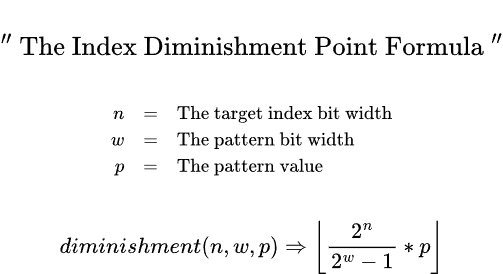
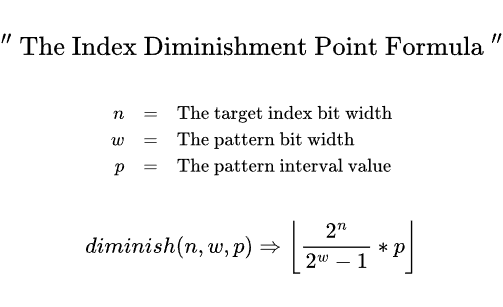
General work

diff --git a/enigma2/assets/diminishment point.tex b/enigma2/assets/diminishment point.tex
@@ -5,8 +5,8 @@
 \begin{array}{rcl}
     n & = & \text{The target index bit width} \\
     w & = & \text{The pattern bit width} \\
-    p & = & \text{The pattern value}
+    p & = & \text{The pattern interval value}
 \end{array}
 \normalsize\\\\
-diminishment(n, w, p) \Rightarrow  \left\lfloor \dfrac{2^{n}}{2^{w} - 1} * 𝑝 \right\rfloor
-\\
+diminish(n, w, p) \Rightarrow  \left\lfloor \dfrac{2^{n}}{2^{w} - 1} * 𝑝 \right\rfloor
+\\\\

diff --git a/enigma2/assets/diminishment summation.tex b/enigma2/assets/diminishment summation.tex
@@ -1,3 +1,4 @@
+\\
 \large
 ''\text{ Index Diminishment Point Summation }'' \\\\
 \small
@@ -12,3 +13,4 @@
 k = \left\lfloor \frac{𝑛}{w} \right\rfloor \\\\
 \sum_{j=0}^{k}
 \left\lfloor\left(\dfrac{2^{n-j*w}}{2^{w}}\right)*p \right\rfloor
+\\\\

diff --git a/enigma2/E2S1 - Index Diminishment.md b/enigma2/E2S1 - Index Diminishment.md
@@ -33,8 +33,8 @@ Let's take an 11-bit index and break it into eight regions using a note (3-bit) 
     let 𝑛 = The index width
     let 𝑤 = The pattern width
     let 𝑝 = The pattern value
-    let  𝑣(𝑝) ↦ ⌊(2ⁿ / (2ʷ - 1)) * 𝑝⌋
-    let 𝑑𝑣(𝑝) ↦ 𝑣(𝑝) - 𝑣(𝑚𝑎𝑥(𝑝 - 1, 0))
+    let  𝑣(𝑛, 𝑤, 𝑝) ↦ ⌊(2ⁿ / (2ʷ - 1)) * 𝑝⌋
+    let 𝑑𝑣(𝑛, 𝑤, 𝑝) ↦ 𝑣(𝑛, 𝑤, 𝑝) - 𝑣(𝑛, 𝑤, 𝑚𝑎𝑥(𝑝 - 1, 0))
     where 𝑚𝑎𝑥(𝑎, 𝑏) returns the larger of 𝑎 and 𝑏 
  
                                       ⬐ "Synthesized Point"
@@ -64,6 +64,17 @@ lower the _resolution_ of the index and provides a way to quickly "stride" throu
 
 Binary is truly the most beautiful counting system in existence =)
 
+<picture>
+<img alt="Index Diminishment Formula" src="assets/diminishment point.png" style="display: block; margin-left: auto; margin-right: auto;">
+</picture>
+
+In `tiny` you can synthesize any diminishment point on the fly by providing a binary measurement (which implicitly
+provides the pattern interval and width as one variable) -
+
+    let 𝑚 = A known interval measurement
+
+    tiny.Synthesize.Point.Diminishment(𝑚, 𝑛) // Synthesizes diminishment interval 𝑚 across an 𝑛-wide index  
+
 ### Terminals, Intervals, and Reading Phrases
 
 A **_single_** leading pattern can also be used to implicitly reference a sub-index on demand - called a _terminal
@@ -87,12 +98,12 @@ of the bit pattern itself -
                        | 1 0 1 - 0 ... 0 |
      The Terminus Interval ⬏        ⬑ The Terminal Region
 
-This brings me to an important, _albeit brief,_ note - binary _values_ are read right to left, but we still colloquially
-read _logical_ binary data from left to right.  The leftmost bit, or the "most significant bit," is considered index
+This brings me to an important note: binary _values_ are read right↤to↤left, but we still colloquially
+read _logical_ binary data from left↦to↦right.  The leftmost bit, or the "most significant bit," is considered index
 position `0` - whereas the rightmost bit, or the "least significant bit," is considered index position `𝑛-1`.  From a
-_value_ perspective, on the other hand, the value wouldn't exist _without_ a terminus.  That's why data pinned to
-the _left side_ of the phrase is considered the _"terminal data,"_ but data pinned to the _right side_ is considered
-the _"initial data."_  In `tiny` both can quickly be synthesized -
+_value_ perspective, on the other hand, the value wouldn't exist _without_ a terminus because _the phrase would be 
+empty!_  That's why data pinned to the _left side_ of the phrase is considered the _"terminal data,"_ but data pinned 
+to the _right side_ is considered the _"initial data."_  In `tiny` both can quickly be synthesized -
 
         tiny.Synthesize.Point.Terminal(𝑝, 𝑛) // Synthesizes terminal point 𝑝 followed by zeros up to the provided width
         tiny.Synthesize.Point.Initial(𝑝, 𝑛) // Synthesizes initial point 𝑝 preceeded by zeros up to the provided width
@@ -106,11 +117,16 @@ a phrase offers -
         𝑎.Read(𝑛) // Reads from the left and returns two phrases: the read terminus bits and the remainder region
         𝑎.ReadFromEnd(𝑛) // Reads from the right and returns two phrases: the read bits and the remainder region
 
-
         𝑎.ReadNextBit() // Reads the next bit from the left plus the remainder
         𝑎.ReadFromEnd(𝑛) // Reads the next bit from the right plus the remainder
         𝑎.ReadMeasurement(𝑛) // Reads up to a word back as a measurement, rather than a phrase, plus the remainder
         𝑎.ReadUntilOne() // Reads from the left until it reaches a one and returns the zero count found plus the remainder
+
+Reading from the end retains the logical order of bits, merely _counting_ from the end.  For example -
+
+                                            Read ⬎            ⬐ Remainder 
+        [ 0 1 0 0 1 1 0 1 ].ReadFromEnd(4) = [ 1 1 0 1 ] [ 0 1 0 0 ] 
+        [ 0 1 0 0 1 1 0 1 ].Read(4)        = [ 0 1 0 0 ] [ 1 1 0 1 ] 
 
 _All_ read operations return an `ErrorEndOfBits` when you have read beyond the bounds of the phrases bits, but 
 it's perfectly acceptable to simply _ignore_ the error because the operation will still return whatever it _could_ 
@@ -122,9 +138,9 @@ a `measurement` gives us a unique quality which a `word` does _not:_ _"is it **e
 The utility of diminishment will come later on, but for now it's a wonderful primer on working with an index!
 
 This solution is a primitive demonstration to show that binary follows these diminishment rules for any provided 
-index.  All of this has led me to posit a fundamental law -
+index.  All of this has led me to posit a fundamental principle of working with binary indexes -
 
-    "The Law of Binary Index Diminishment"
+    "The Binary Index Diminishment Principle"
 
         An index can be diminished by the dark point of a bit pattern's containing index from repeating 
         the pattern across the target, with the diminishment interval defined by the numeric value of 
@@ -132,9 +148,9 @@ index.  All of this has led me to posit a fundamental law -
 
 ### Prove It!
 Technically, the formula is already written above - but I get to prove to you that _repeating the bit pattern_
-across the index is equivalent to the more formalized `𝑣(𝑝)` formula.  That's a lot easier than one might think! First, 
-it's a lot easier to work from the _left_ side of the index rightwards.  Let's circle back to the halving 
-points of an index again -
+across the index is equivalent to the more formalized `𝑣(𝑝)` formula above.  That's a lot easier than one might 
+think! First, it's a lot easier to mathematically work from the _left_ side of the index rightwards.  Let's circle 
+back to the halving points of an index again -
 
         Index 2¹⁰ (1024)
 
@@ -152,7 +168,7 @@ remaining bits to be zero, a summable formula arises -
     let 𝑤 = The pattern index bit width
     let 𝑝 = The pattern value
     
-    𝑓(𝑛, 𝑤, 𝑝) ↦ ⌊ ( 2ⁿ / 2ʷ ) * 𝑝 ⌋
+    𝑓(𝑛, 𝑤, 𝑝) = ⌊ ( 2ⁿ / 2ʷ ) * 𝑝 ⌋
 
 So let's algorithmically sum this operation starting from the full index width, and then iteratively again
 for each index one pattern width less wide -
@@ -187,7 +203,7 @@ for each index one pattern width less wide -
             (6) | 1 1 0 - 0 0 |  (24) = ⌊(2⁵/2³) * 6⌋
             (7) | 1 1 1 - 0 0 |  (28) = ⌊(2⁵/2³) * 7⌋
                 |←  3  →|     |
-                |←     7     →|
+                |←     5     →|
 
     -----------------------------------------------------------
 
@@ -236,24 +252,10 @@ together.  Ultimately, that can be wrapped up into a very simple little formula 
 diminishment point -
 
 <picture>
-<img alt="Index Diminishment Formula" src="assets/diminishment summation.png" style="display: block; margin-left: auto; margin-right: auto;">
+<img alt="Index Diminishment Summation Formula" src="assets/diminishment summation.png" style="display: block; margin-left: auto; margin-right: auto;">
 </picture>
 
-But, that's _super clunky_ to work with since you must iteratively build the value - implementing this _in code_
-wouldn't be nearly as efficient as using the formula we already proved earlier -
-
-<picture>
-<img alt="Index Diminishment Formula" src="assets/diminishment point.png" style="display: block; margin-left: auto; margin-right: auto;">
-</picture>
-
-In `tiny` you can synthesize any diminishment point on the fly by providing a binary measurement (which implicitly
-provides the pattern interval and width as one variable) -
-
-    let 𝑚 = A known measurement interval
-
-    tiny.Synthesize.Point.Diminishment(𝑚, 𝑛) // Synthesizes diminishment interval 𝑚 across an 𝑛-wide index  
-
-I'm not sure how much more proof one would need - this appears to be a fundamental _law_ of binary indexes =)
+I'm not sure how much more proof one would need - this appears to be a fundamental principle of binary indexes =)
 
 _Far_ more importantly, however, we just executed the standard process of synthesis: using _starting conditions_
 and an _algorithm_ to create a _target!_ 
